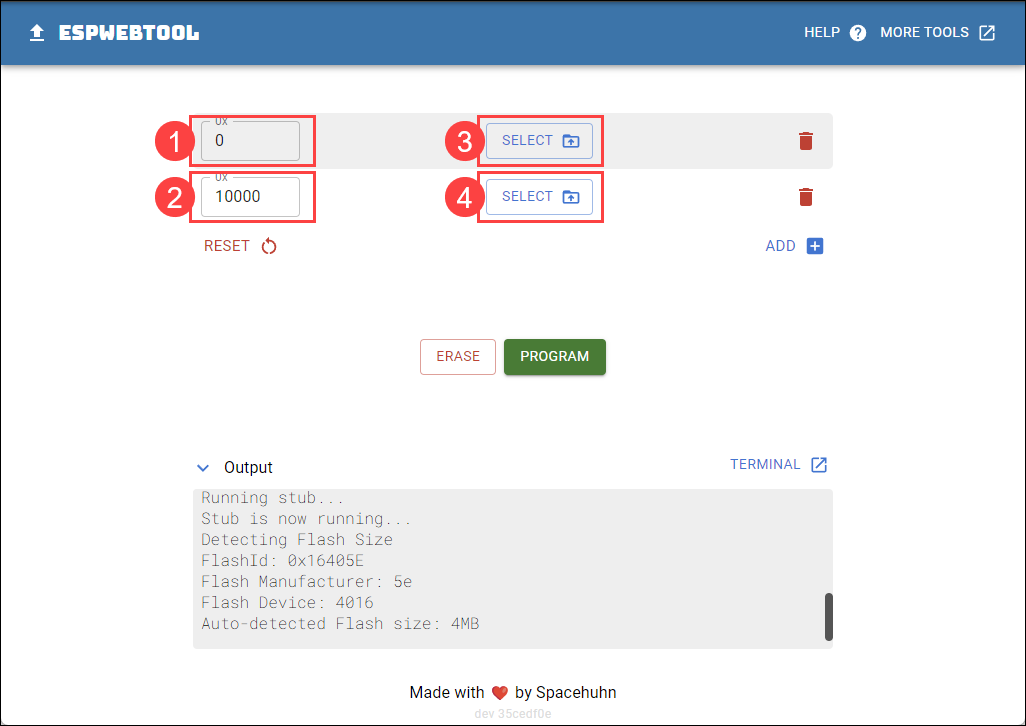
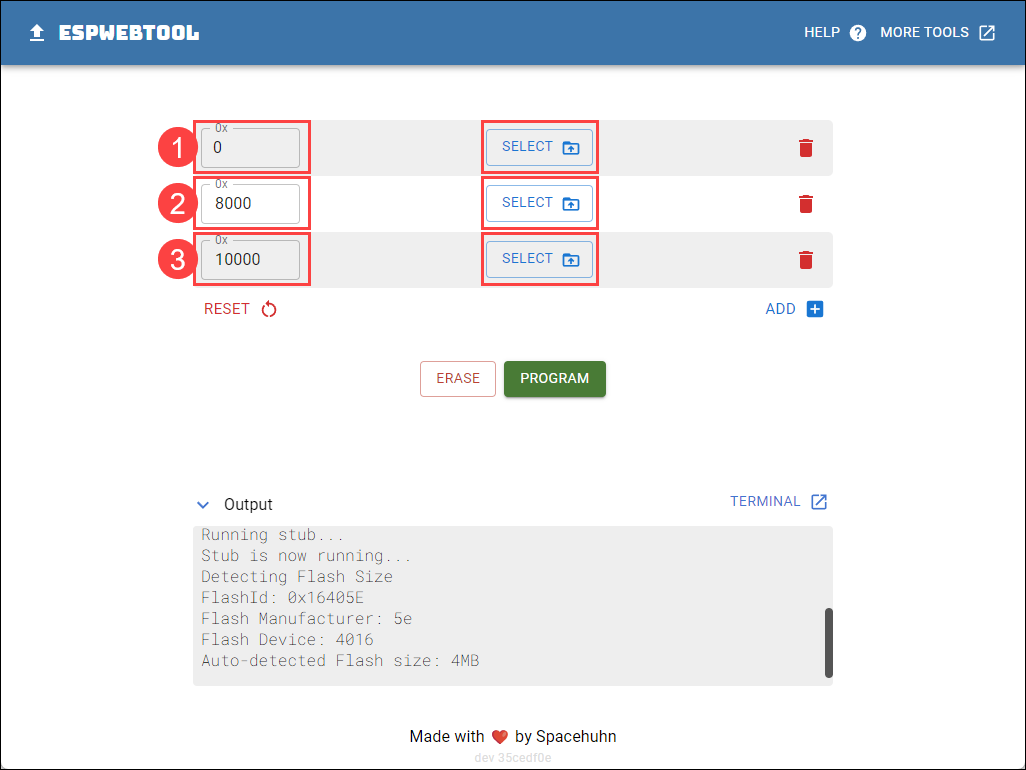
Added partitions.bin and updated readme/images to include the partitions info.

diff --git a/README.md b/README.md
@@ -14,17 +14,23 @@ Model 2023 or the new Model 2023: S1M0N code.
 | Front | Back |
 
 ## Links
-- [Installing Firmware](#installing-firmware-with-espwebtool)
-- [Accessing Serial Console](#interacting-with-your-badge)
-- [Update WiFi Settings](#changing-wifi-credentials)
-- [Tips](#tips)
+- [OzSec Model 2023 Badge (Version 2023.5)](#ozsec-model-2023-badge-version-20235)
+  - [Links](#links)
+  - [Installing Firmware with ESPWebTool](#installing-firmware-with-espwebtool)
+    - [Troubleshooting ESPWebTool](#troubleshooting-espwebtool)
+  - [Interacting With Your Badge](#interacting-with-your-badge)
+  - [Changing WiFi Credentials](#changing-wifi-credentials)
+  - [Tips](#tips)
 
 ## Installing Firmware with ESPWebTool
 
 The latest firmware supports over the air updates, as long as WiFi is configured properly and the badge is connected to the Internet.
 The original OzSec 2023 badge firmware did not get this feature in time for the conference.
 
-- Download the latest [firmware.bin](firmware/firmware.bin) and [bootloader.bin](firmware/bootloader.bin).
+Download the following files: 
+- [bootloader.bin](firmware/bootloader.bin)
+- [partitions.bin](firmware/partitions.bin)
+- [firmware.bin](firmware/firmware.bin)
 
 - Plug your badge into your computer with a USB-C cable.
 > Note that it must be a data USB-C cable, not a power only cable. If you don't see a COM port for your badge, and installing drivers doesn't help, try a different cable.
@@ -59,15 +65,18 @@ The original OzSec 2023 badge firmware did not get this feature in time for the 
 </p>
 
 - Once the badge is connected, four file upload options will show up. 
+
+- Click the delete icon on the `E000` row, we only need the other three.
 <p align=center>
 <img src="images/espwebtool-4.png">
 </p>
 
-- Click the delete icon on the bottom two rows, we only need two of them.
+- Ensure the first row is `0` and browse to your `bootloader.bin`.
 
-- Enter `0` and browse to your `bootloader.bin` for the first option.
+- Ensure the second row is `8000` and browse to your `partitions.bin`.
 
-- Enter `10000` and browse to your `firmware.bin` for the second option.
+- Ensure the third row is `10000` and browse to your `firmware.bin`.
+
 <p align=center>
 <img src="images/espwebtool-5.png">
 </p>
